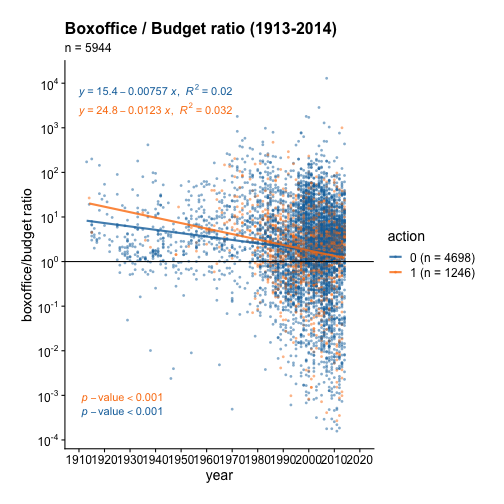
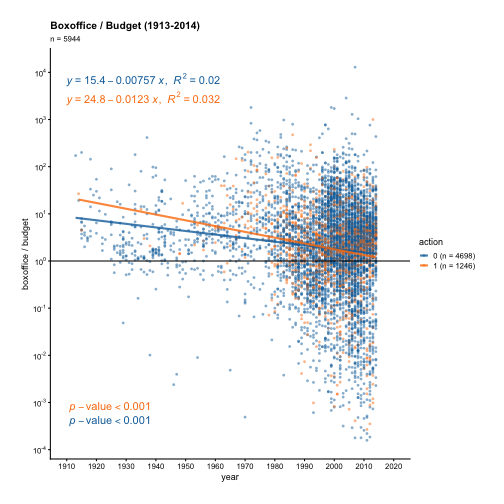
make font smaller

Changed region(s): [[0.0298, 0.0298, 0.9524, 0.9524]]

diff --git a/manuscript/05-01-scatterplot.md b/manuscript/05-01-scatterplot.md
@@ -54,8 +54,8 @@ scatter plot of `boxoffice` vs. `votes`.
 A>
 ```r
 p = plt("votes", "boxoffice", alpha = 0.2, jitter = T) %>% 
-        add_labs(xlab="number of votes", 
-                 ylab="boxoffice (in US Dollars)", 
+        add_labs(xlab = "number of votes", 
+                 ylab = "boxoffice (in US Dollars)", 
                  title = "Boxoffice vs. Votes (1913-2014)",
                  caption = "Source: IMDB"
                  )
@@ -76,8 +76,9 @@ flagging variable `action`.
 
 A>
 ```r
-p = plt("year", "bo_bt_ratio", fillby = "action", alpha = 0.5) %>% 
-        add_labs(ylab = "boxoffice/budget", 
+p = plt("year", "bo_bt_ratio", fillby = "action", 
+        alpha = 0.5, font_size = 9) %>% 
+        add_labs(ylab = "boxoffice / budget", 
                  title = "Boxoffice / Budget (1913-2014)")
 p = p + ggplot2::geom_hline(yintercept = 1)
 p = scale_axis(p, scale="log10")
